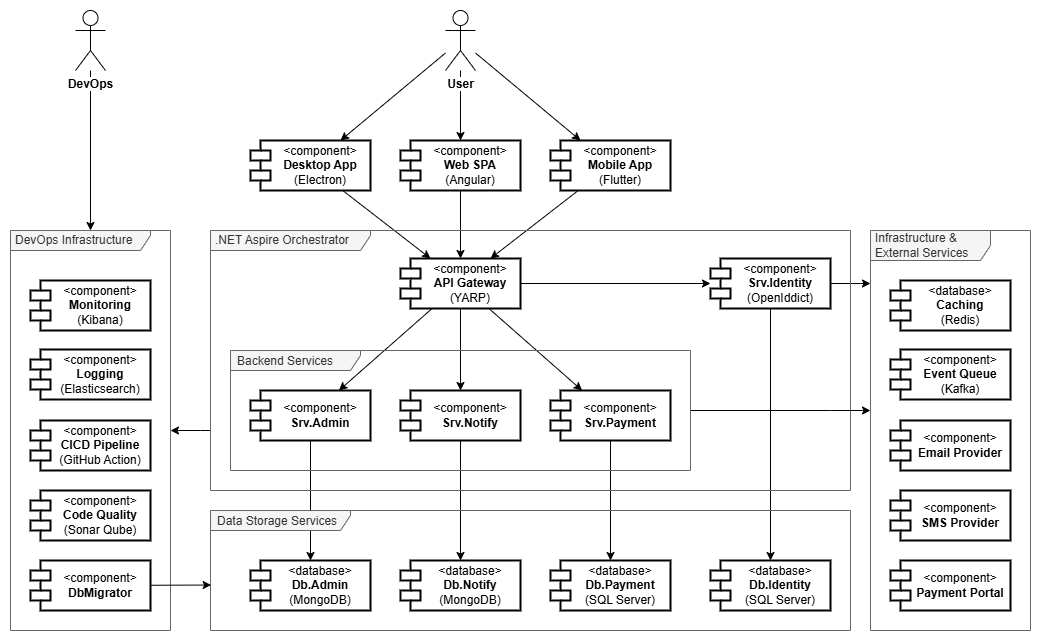
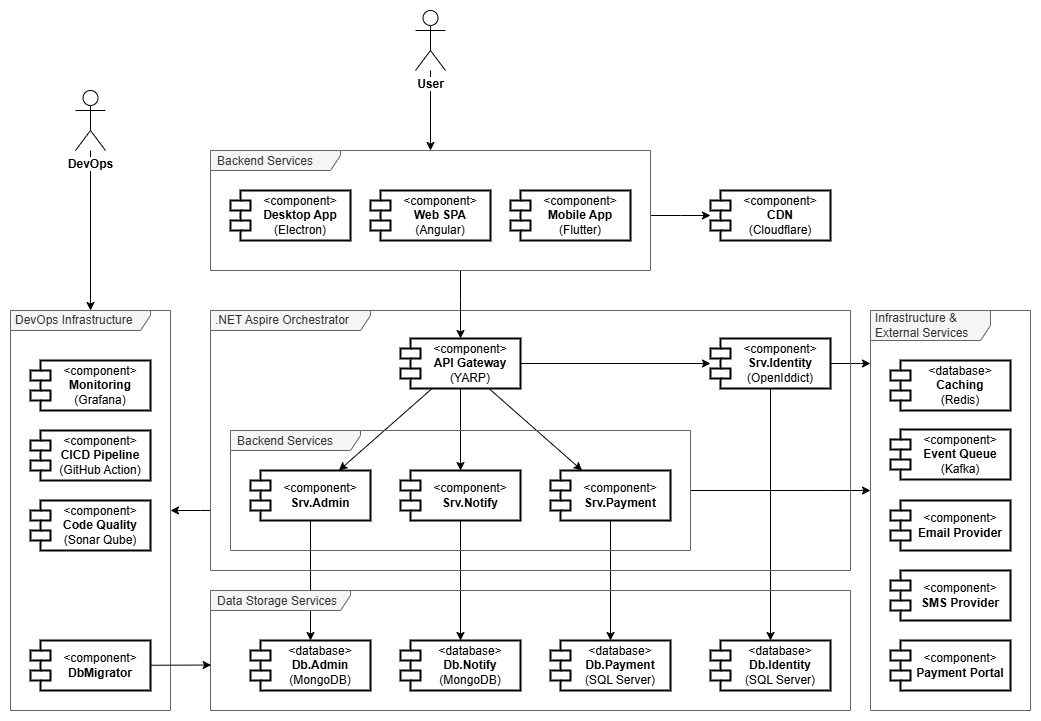
docs: update detailed plan and arch diagram

diff --git a/docs/1.requirements/02.detailed-planning.md b/docs/1.requirements/02.detailed-planning.md
@@ -12,24 +12,27 @@
 
 #### 1.2. Setup infrastructure for DevOps
 
-- [ ] Setup Elasticstack (Elasticsearch, Kibana, Open Telemetry)
+- [ ] Setup Grafana Cloud for monitoring and alerting.
 - [x] Backend: Add xUnit projects for Integration Tests.
 - [x] Frontend: Add Cypress for Angular for End-to-end Tests.
-- [ ] Setup CI for build, test, lint, code quality scan.
-- [ ] Setup CI for quality scan with SonarQube, and Synk.
+- [x] Setup CI for build, test, lint, code quality scan.
+- [x] Setup CI for quality scan with SonarQube.
 - [ ] Update README with project overview and setup instructions.
 
 ### 2. Implement Fundamental Authentication
 
-- [ ] Implement Srv.Identity with OpenIddict for OAuth2/OIDC flows.
-- [ ] Build customizable SSO page with tenant branding and localization.
-- [ ] Create registration APIs and forms, integrate email verification.
-
-### 3. Implement Fundamental Multi-Tenancy
+#### 2.1. Setup Identity Microservice 
 
 - [ ] Research apply schema-per-tenant or partitioning.
-- [ ] Backend and frontend CRUD for tenants.
-- [ ] Implement invitation flows and assign users to tenants.
+- [ ] Implement Srv.Identity with OpenIddict for OAuth2/OIDC flows.
+- [ ] Build sign in and sign up UI with Blazor Server.
+- [ ] Integrate Srv.Identity with Angular frontend.
+
+#### 2.2. Implement Multi-Tenancy Management
+
+- [ ] Implement Admin Layout and basic management UI.
+- [ ] Implement tenant management UI and CRUD APIs.
+- [ ] Implement tenant registration and onboarding flow.
 
 ### 4. Implement Fundamental Authorization
 

diff --git a/README.md b/README.md
@@ -1,2 +1,16 @@
 # codebase-microservices
+
 A modern microservice boilerplate for rapid SaaS development with .NET and Angular. Features built-in multi-tenancy, secure authentication (OpenIddict, SSO), event-driven architecture (Kafka, gRPC), real-time notifications, and cloud-ready CI/CD and monitoring. Start scalable distributed projects fast with best practices out of the box.
+
+## Features
+
+- Modular microservice architecture with DDD, EDD, TDD principles
+- Built on .NET Aspire for cloud-native microservices
+- Angular SPA frontend with theming and localization
+- Multi-tenancy support with customizable tenant branding
+- OAuth2/OIDC authentication with OpenIddict
+- Event-driven communication using Kafka and gRPC
+- Realtime in-app notifications with SignalR
+- Payment integration for subscription management
+- CI/CD pipelines with automated testing and quality scans
+- Monitoring and alerting with Grafana Cloud
